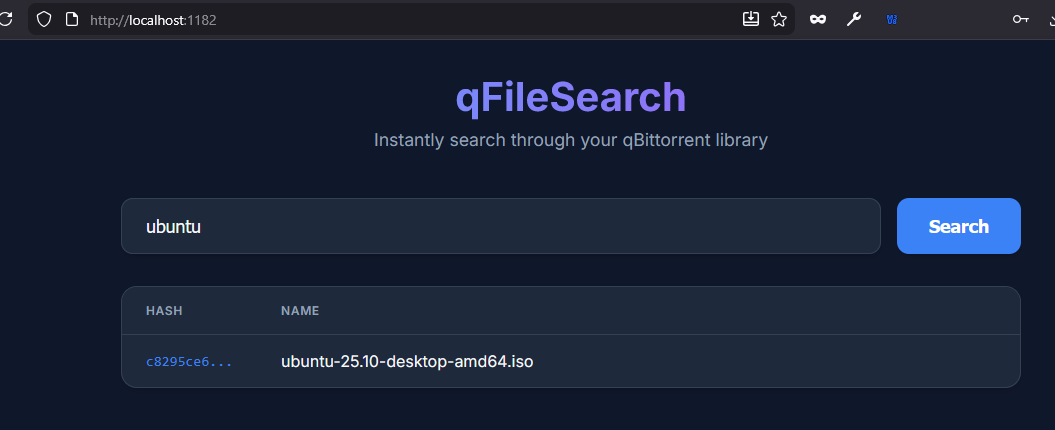
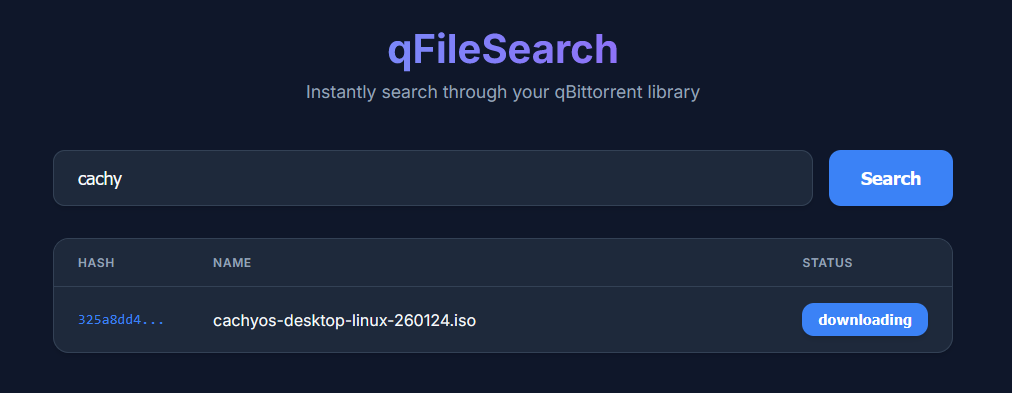
Added Torrent download trigger

diff --git a/index.html b/index.html
@@ -231,6 +231,12 @@
             }
         }
 
+        .action-btn {
+            padding: 0.5rem 1rem;
+            font-size: 0.9rem;
+            min-width: 100px;
+        }
+
         /* Responsive */
         @media (max-width: 600px) {
             body {
@@ -276,6 +282,7 @@
                     <tr>
                         <th style="width: 120px;">Hash</th>
                         <th>Name</th>
+                        <th style="width: 140px;">Status</th>
                     </tr>
                 </thead>
                 <tbody id="results">
@@ -322,26 +329,60 @@
                             // Truncate hash for display but keep full for copy
                             const shortHash = file.hash.substring(0, 8) + '...';
 
-                            row.innerHTML = `
-                                <td class="hash-cell" onclick="copyToClipboard('${file.hash}')" title="Click to copy full hash: ${file.hash}">
-                                    ${shortHash}
-                                </td>
-                                <td>${file.name}</td>
-                            `;
+                            const hashTd = document.createElement('td');
+                            hashTd.className = 'hash-cell';
+                            hashTd.onclick = () => copyToClipboard(file.hash);
+                            hashTd.title = `Click to copy full hash: ${file.hash}`;
+                            hashTd.innerText = shortHash;
+
+                            const nameTd = document.createElement('td');
+                            nameTd.innerText = file.name;
+
+                            const actionTd = document.createElement('td');
+                            const btn = document.createElement('button');
+                            btn.className = 'action-btn';
+                            btn.innerText = file.status;
+                            btn.onclick = function () {
+                                enableFile(file.name, btn);
+                            };
+                            actionTd.appendChild(btn);
+
+                            row.appendChild(hashTd);
+                            row.appendChild(nameTd);
+                            row.appendChild(actionTd);
+
                             resultsBody.appendChild(row);
                         });
                         resultsContainer.classList.add('visible');
                     } else {
                         // Optionally show a "no results" message
-                        resultsBody.innerHTML = '<tr><td colspan="2" style="text-align:center; padding: 2rem; color: var(--text-muted);">No files found matching your query.</td></tr>';
+                        resultsBody.innerHTML = '<tr><td colspan="3" style="text-align:center; padding: 2rem; color: var(--text-muted);">No files found matching your query.</td></tr>';
                         resultsContainer.classList.add('visible');
                     }
                 })
                 .catch(error => {
                     console.error('Error:', error);
                     loading.classList.remove('active');
-                    resultsBody.innerHTML = '<tr><td colspan="2" style="text-align:center; color: #ef4444; padding: 1rem;">An error occurred while searching.</td></tr>';
+                    resultsBody.innerHTML = '<tr><td colspan="3" style="text-align:center; color: #ef4444; padding: 1rem;">An error occurred while searching.</td></tr>';
                     resultsContainer.classList.add('visible');
+                });
+        }
+
+        function enableFile(name, btn) {
+            btn.disabled = true;
+            fetch(`/enable?name=${encodeURIComponent(name)}`, { method: 'POST' })
+                .then(response => {
+                    if (response.ok) {
+                        btn.innerText = 'downloading';
+                    } else {
+                        btn.disabled = false;
+                        alert('Failed to enable file');
+                    }
+                })
+                .catch(error => {
+                    console.error('Error:', error);
+                    btn.disabled = false;
+                    alert('Error enabling file');
                 });
         }
 

diff --git a/main.go b/main.go
@@ -4,8 +4,10 @@ import (
 	"context"
 	"database/sql"
 	"encoding/json"
+	"fmt"
 	"log"
 	"net/http"
+	"strings"
 
 	_ "embed"
 
@@ -23,8 +25,11 @@ type MainData struct {
 type TorrentsList []string
 
 type File struct {
-	Hash string `json:"hash"`
-	Name string `json:"name"`
+	Hash     string  `json:"hash"`
+	Name     string  `json:"name"`
+	Index    int     `json:"index"`
+	Progress float64 `json:"progress"`
+	Status   string  `json:"status"`
 }
 
 type FilesList []File
@@ -41,7 +46,7 @@ func (t *TorrentsList) UnmarshalJSON(b []byte) error {
 }
 
 func main() {
-	// create sqlite db
+	// open postgres db
 	db, err := sql.Open("postgres", "postgres://admin:example@localhost:5433/qbittorrent-file-search?sslmode=disable")
 	if err != nil {
 		panic(err)
@@ -49,16 +54,17 @@ func main() {
 	defer db.Close()
 
 	// create table
-	_, err = db.Exec("CREATE TABLE IF NOT EXISTS files (hash TEXT, name TEXT)")
+	_, err = db.Exec("CREATE TABLE IF NOT EXISTS files (hash TEXT, name TEXT, index INT, progress FLOAT, status TEXT DEFAULT 'cached')")
 	if err != nil {
 		panic(err)
 	}
 
 	log.Println("Building Database...")
-	getFiles(db)
+	//getFiles(db)
 	log.Println("Database Ready")
 
 	http.HandleFunc("/search", searchEndpoint(db))
+	http.HandleFunc("/enable", enableDownload(db))
 	http.HandleFunc("/", func(w http.ResponseWriter, r *http.Request) {
 		w.Header().Set("Content-Type", "text/html")
 		w.Write(indexHTML)
@@ -75,7 +81,7 @@ func searchEndpoint(db *sql.DB) http.HandlerFunc {
 			http.Error(w, "query is required", http.StatusBadRequest)
 			return
 		}
-		rows, err := db.Query("SELECT hash, name FROM files WHERE name LIKE $1", "%"+query+"%")
+		rows, err := db.Query("SELECT hash, name, index, progress, status FROM files WHERE name LIKE $1", "%"+query+"%")
 		if err != nil {
 			http.Error(w, err.Error(), http.StatusInternalServerError)
 			return
@@ -84,7 +90,7 @@ func searchEndpoint(db *sql.DB) http.HandlerFunc {
 		var files []File
 		for rows.Next() {
 			var file File
-			if err := rows.Scan(&file.Hash, &file.Name); err != nil {
+			if err := rows.Scan(&file.Hash, &file.Name, &file.Index, &file.Progress, &file.Status); err != nil {
 				http.Error(w, err.Error(), http.StatusInternalServerError)
 				return
 			}
@@ -96,6 +102,23 @@ func searchEndpoint(db *sql.DB) http.HandlerFunc {
 		}
 		w.Header().Set("Content-Type", "application/json")
 		json.NewEncoder(w).Encode(files)
+	}
+}
+
+func enableDownload(db *sql.DB) http.HandlerFunc {
+	return func(w http.ResponseWriter, r *http.Request) {
+		name := r.URL.Query().Get("name")
+		if name == "" {
+			http.Error(w, "name is required", http.StatusBadRequest)
+			return
+		}
+		rows := db.QueryRow("SELECT hash, name, index, progress FROM files WHERE name = $1", name)
+		var file File
+		rows.Scan(&file.Hash, &file.Name, &file.Index, &file.Progress)
+		body := fmt.Sprintf("hash=%s&id=%d&priority=1", file.Hash, file.Index)
+		http.Post("http://localhost:21444/api/v2/torrents/filePrio", "application/x-www-form-urlencoded", strings.NewReader(body))
+		db.Query("UPDATE files SET status = 'downloading' WHERE name = $1", name)
+		w.WriteHeader(http.StatusOK)
 	}
 }
 
@@ -138,9 +161,15 @@ func getFiles(db *sql.DB) {
 						return err
 					}
 					if exists {
+						// update status if exists
+						res, err := db.Exec("UPDATE files SET status = $1 WHERE hash = $2 AND name = $3", "cached", hash, file.Name)
+						if err != nil {
+							return err
+						}
+						_ = res
 						return nil
 					}
-					res, err := db.Exec("INSERT INTO files (hash, name) VALUES ($1, $2)", hash, file.Name)
+					res, err := db.Exec("INSERT INTO files (hash, name, index, progress) VALUES ($1, $2, $3, $4)", hash, file.Name, file.Index, file.Progress)
 					if err != nil {
 						return err
 					}

diff --git a/readme.md b/readme.md
@@ -3,6 +3,16 @@ This is a simple web application that allows you to search for files in your qBi
 
 ![qbittorrent-file-search](https://github.com/mgenc2077/qbittorrent-file-search/blob/main/screenshot.png?raw=true)
 
+## Features
+- Search for files in your qBittorrent client
+- Cache file names in postgresql
+- Search (sql LIKE)
+- Enable download for files
+
+## Todo
+- Create a dockerfile
+- Add category filter for torrents
+
 ## Prequisites
 Docker Compose with Postgre DB
 ```bash
